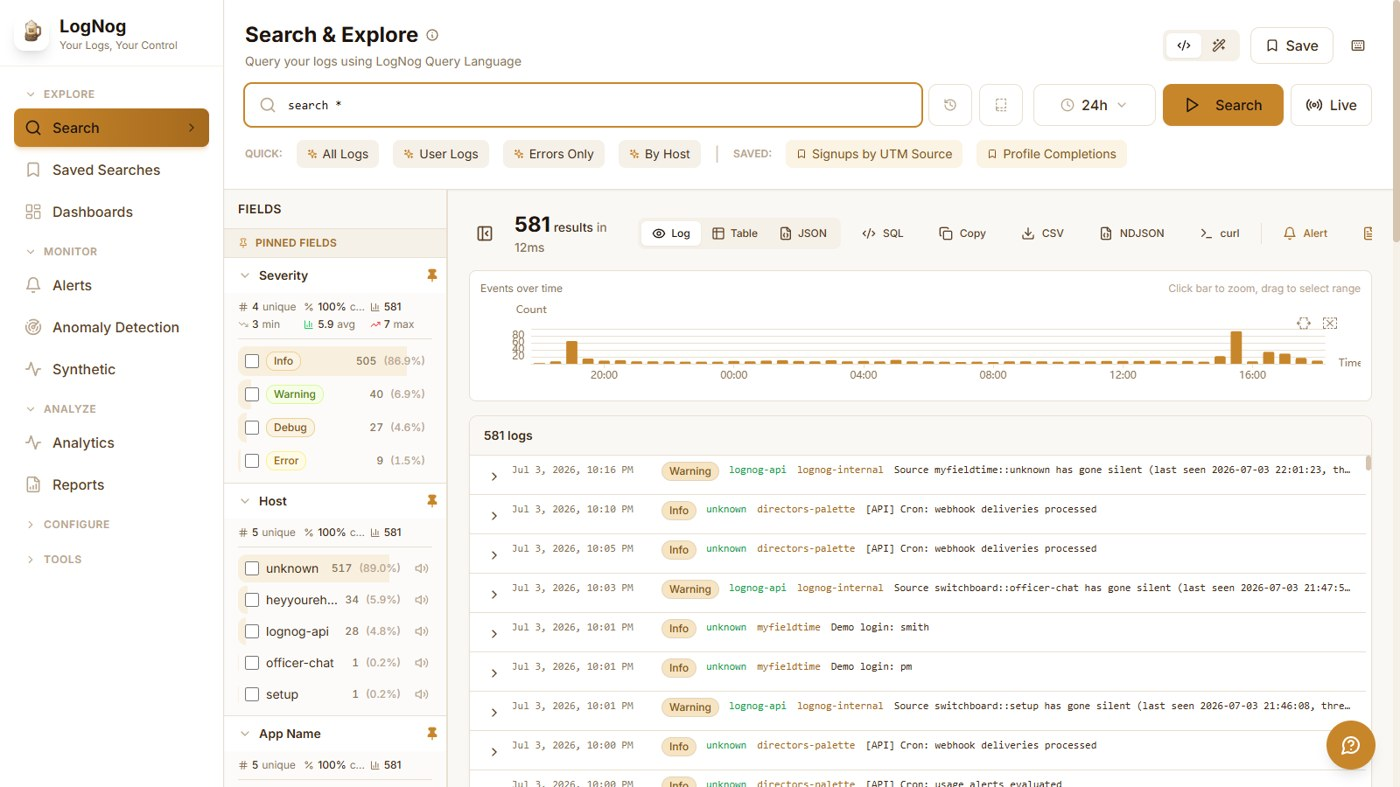
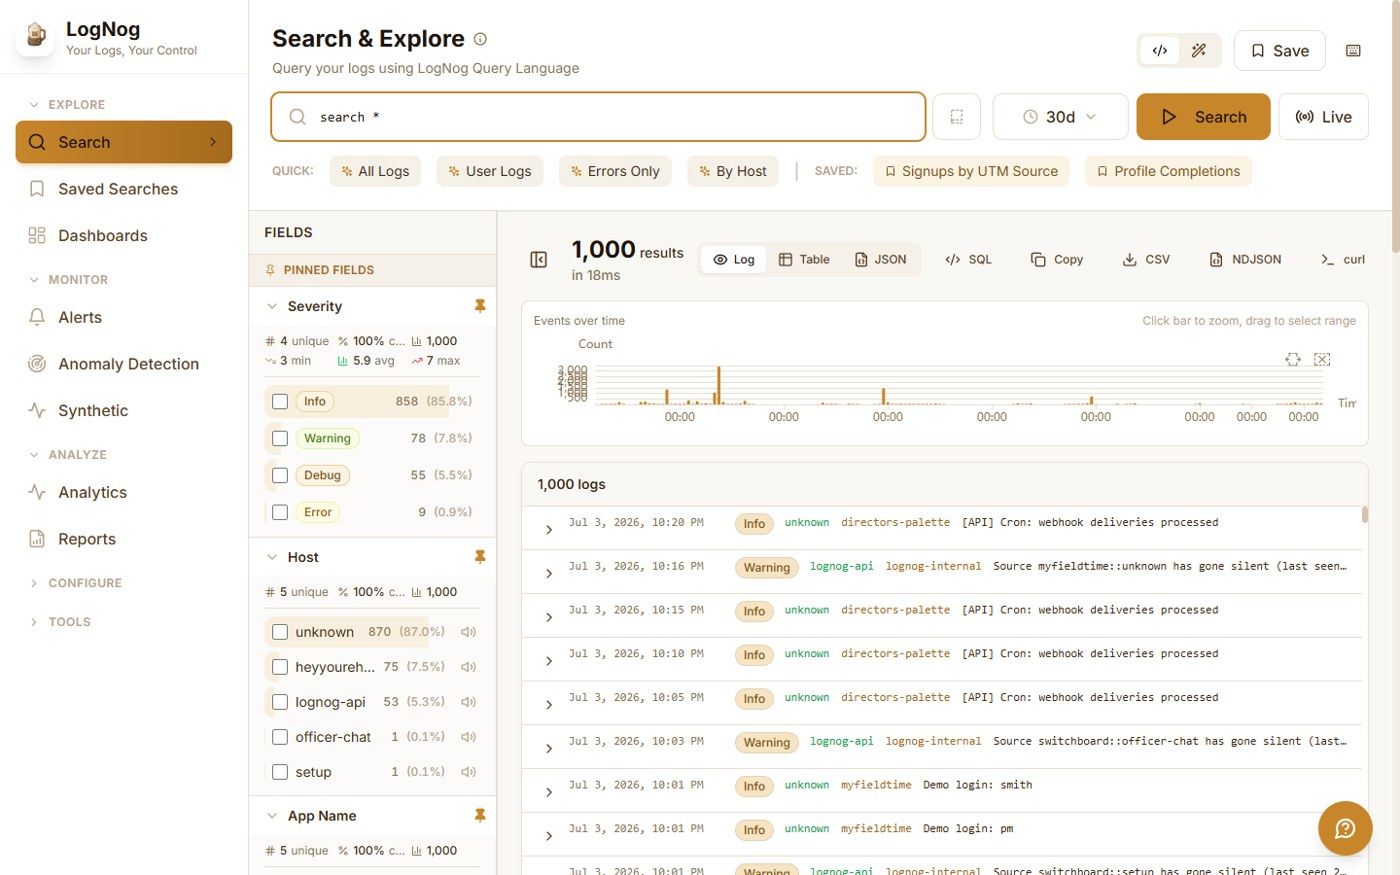
ui(landing): populated Search + Dashboard showcase screens
Capture the real Search over 30 days (1,000 results, severity/host breakdowns, live log rows) and a fully-populated Directors Palette dashboard (29K generations, 65 users, 176K credits, multi-model donut). Replaces the sparse 24h/mockup versions that looked empty. Search asset version-bumped to bust cache.

diff --git a/ui/src/pages/LandingPage.tsx b/ui/src/pages/LandingPage.tsx
@@ -36,8 +36,8 @@ const integrations = [
 ];
 
 const shots = [
-  { src: '/shot-search.jpg', label: 'Search', blurb: 'Pipe a query, watch it resolve in milliseconds.', pos: 'object-top' },
-  { src: '/guide-screenshots/dashboard-view.jpg', label: 'Dashboards', blurb: 'Compose panels that update on their own.', pos: 'object-[46%_32%]' },
+  { src: '/shot-search.jpg?v=2', label: 'Search', blurb: 'Pipe a query, watch it resolve in milliseconds.', pos: 'object-top' },
+  { src: '/shot-dashboard.jpg', label: 'Dashboards', blurb: 'Compose panels that update on their own.', pos: 'object-top' },
   { src: '/shot-alerts.jpg', label: 'Alerts', blurb: 'Get told the moment something goes quiet — or loud.', pos: 'object-top' },
 ];
 
